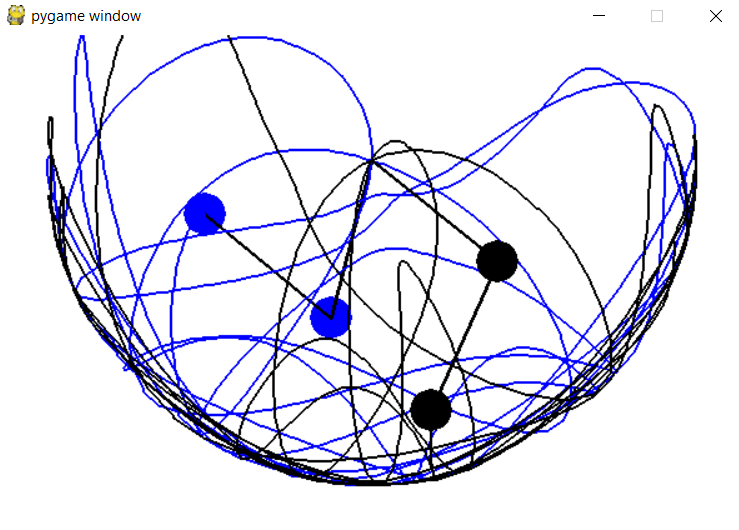
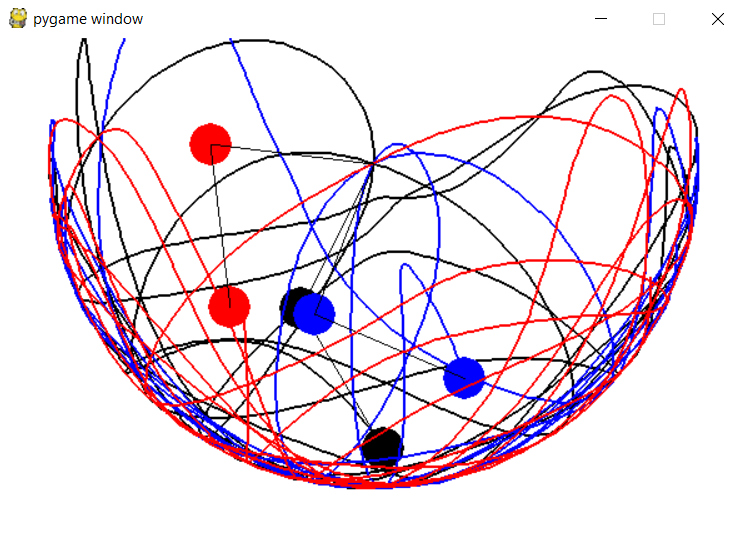
push to master

diff --git a/main.py b/main.py
@@ -142,15 +142,15 @@ def main():
                 view = False
 
         pendulum1.run()
-        pendulum1.fade()
+        pendulum1.trace()
         pendulum1.draw()
 
         pendulum2.run()
-        pendulum2.fade()
+        pendulum2.trace()
         pendulum2.draw()
 
         pendulum3.run()
-        pendulum3.fade()
+        pendulum3.trace()
         pendulum3.draw()
 
 
